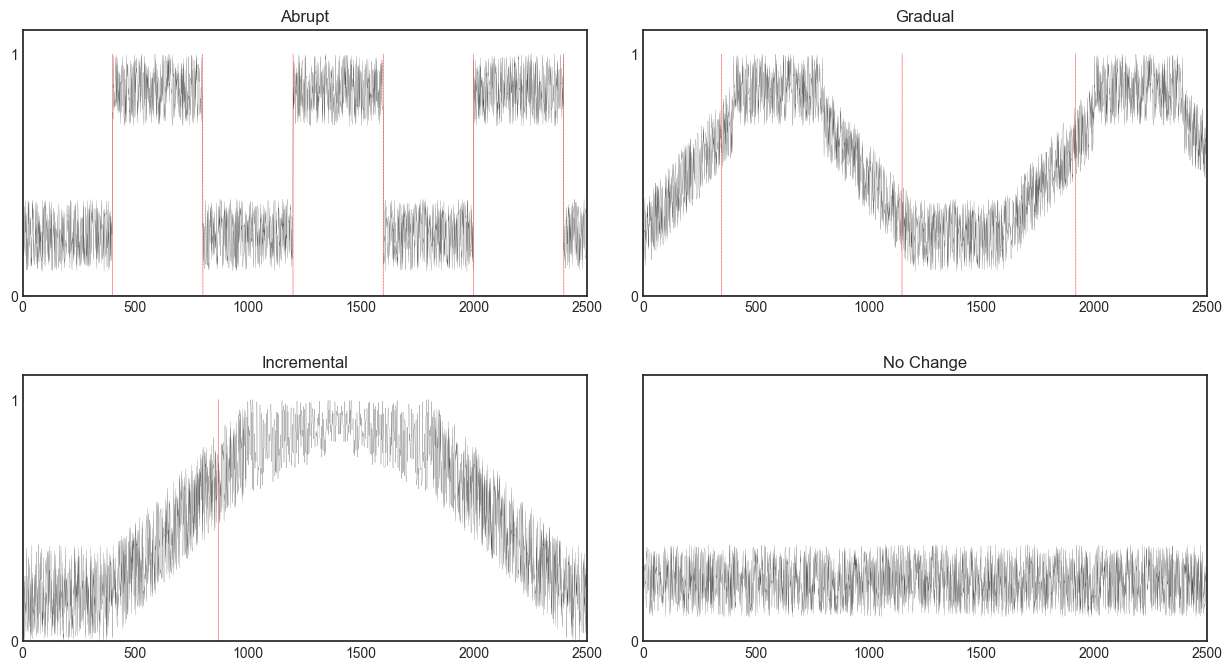
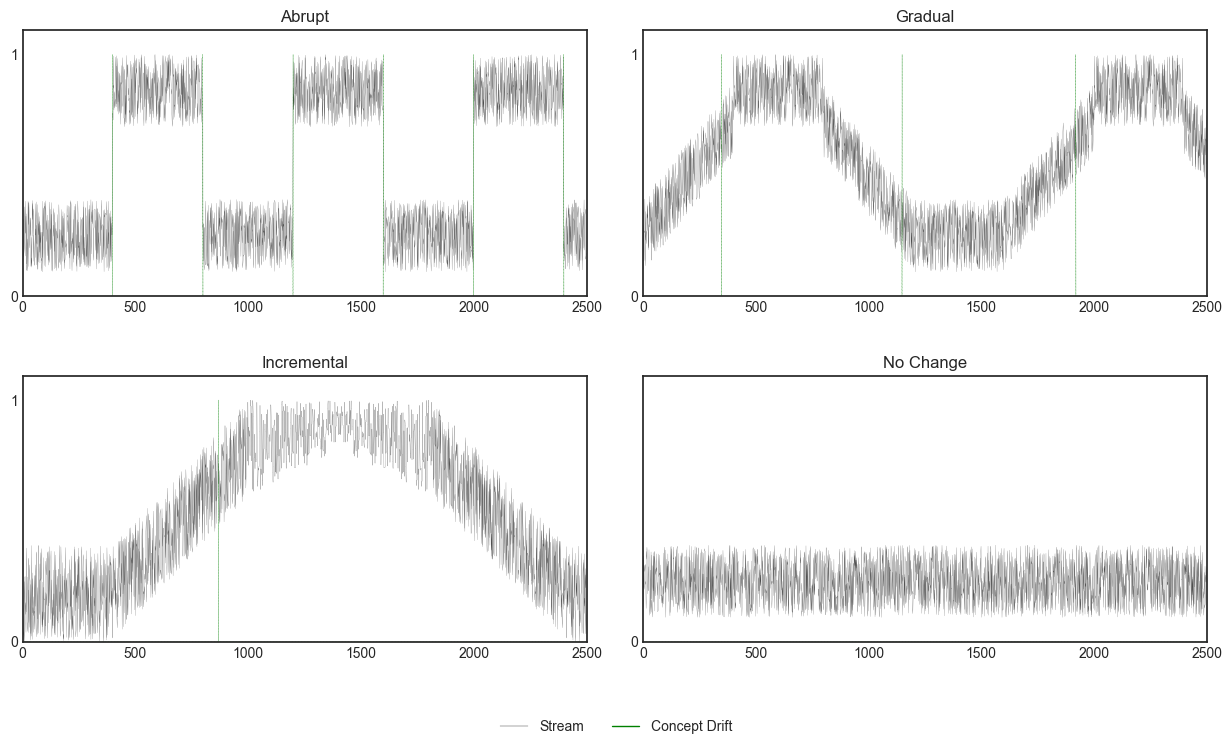
up

diff --git a/experiments/thesis_moa/plotar_todos_datasets.py b/experiments/thesis_moa/plotar_todos_datasets.py
@@ -3,6 +3,7 @@ import os
 import os.path
 import glob
 import matplotlib
+from matplotlib.lines import Line2D
 
 import matplotlib.pyplot as plt
 plt.style.use('seaborn-white')
@@ -57,6 +58,19 @@ class DatasetPlotter:
         for ax in self.axs.flat:
             ax.set_xlim(0, 2500)
             ax.set_ylim(0, 1.1)
+        
+        custom_legends = [
+            Line2D([0], [0], color="#000000", linestyle="-", linewidth=0.25),
+            Line2D([0], [0], color="g", ls="-", linewidth=1),
+        ]
+        
+        self.fig.legend(
+            custom_legends,
+            ["Stream", "Concept Drift"],
+            ncol=2,
+            borderaxespad=0,
+            loc="lower center",
+        )
 
     def _setup_ax(self, arff_file_name):
         arff_file_name = os.path.basename(arff_file_name)
@@ -69,7 +83,7 @@ class DatasetPlotter:
         arff_file_df = self.read_arff_file(arff_file_name)
 
         ax.plot(arff_file_df["input"], color="k", linestyle="-", linewidth=0.1)
-        ax.plot(arff_file_df["change"], color="r", linestyle="--", linewidth=0.2)
+        ax.plot(arff_file_df["change"], color="g", linestyle="--", linewidth=0.2)
 
 
 if __name__ == "__main__":
